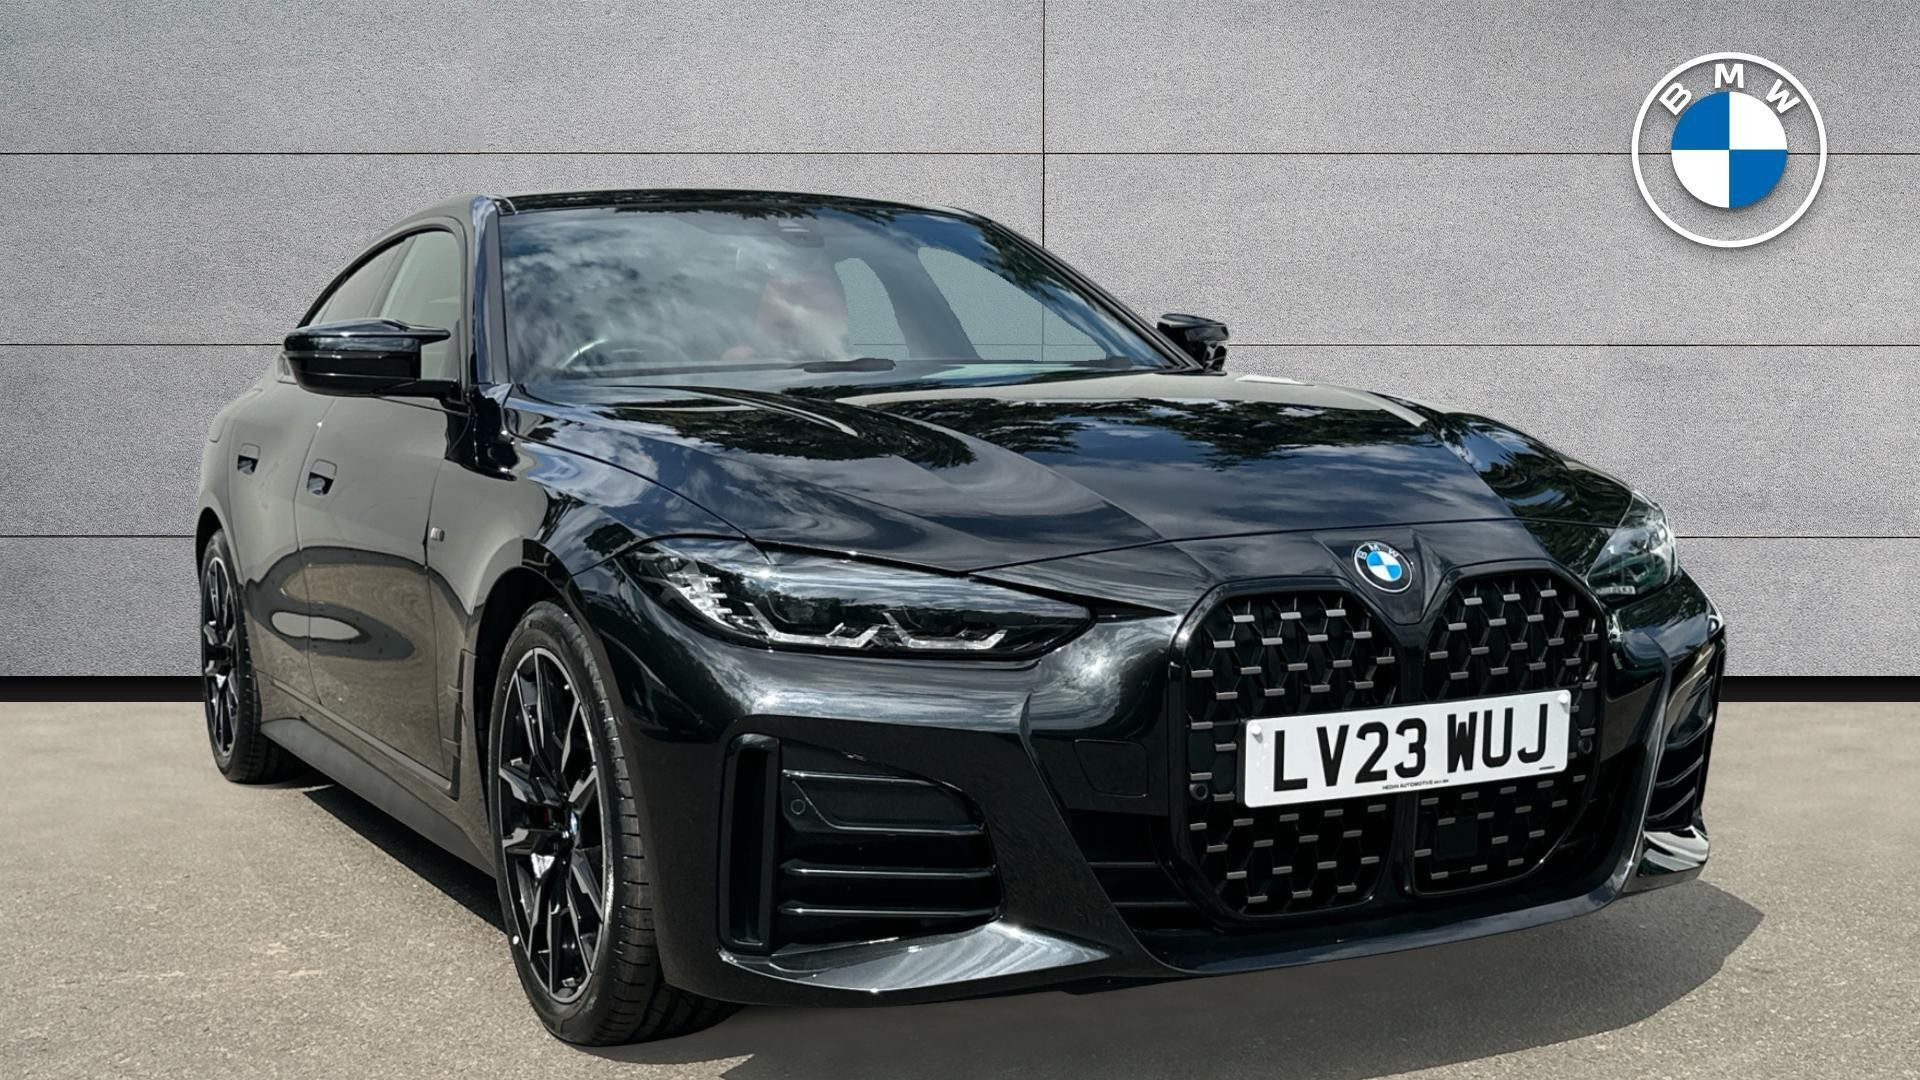
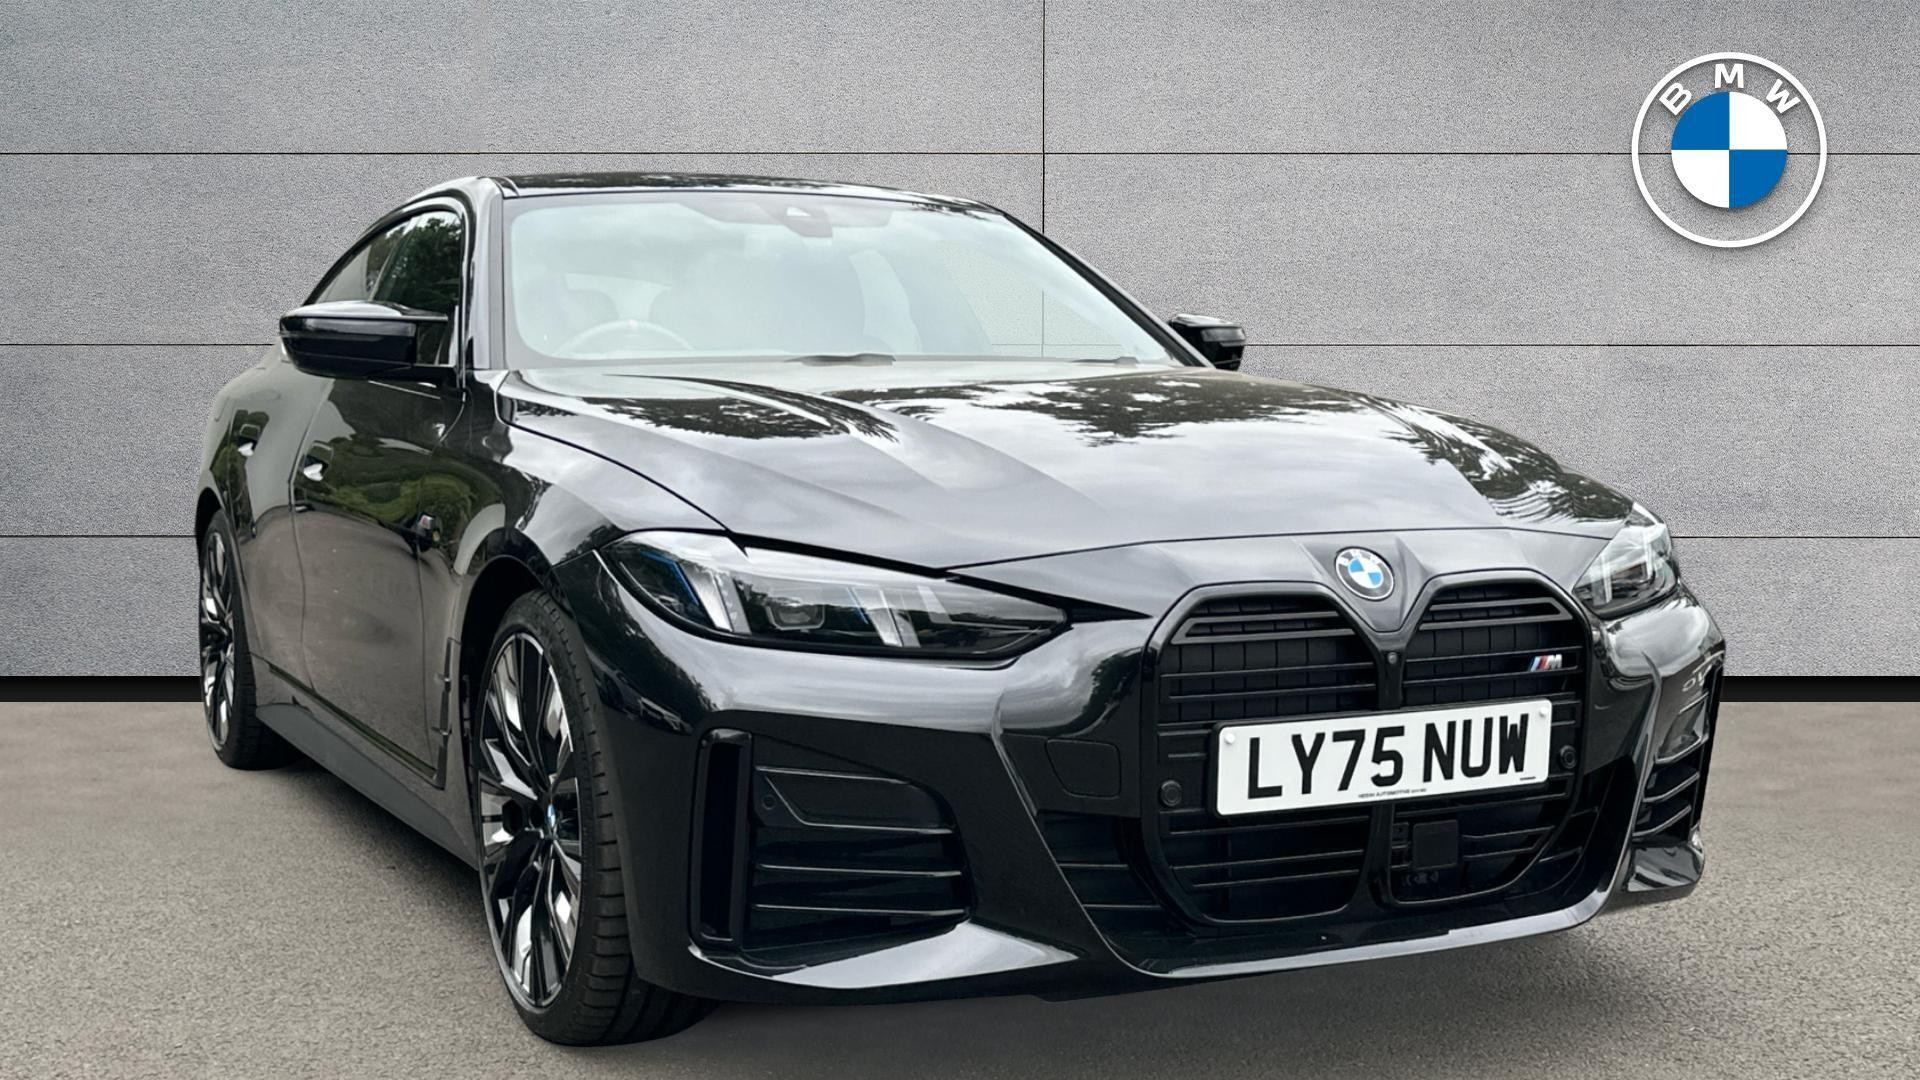
Refresh Available Now stock: M440i sold, swap in 2025 replacement
The 2023 M440i xDrive Gran Coupe (LV23WUJ) listing 404s on Hedin - sold.
Replaced with a lower-mileage 2025 M440i xDrive Gran Coupe (LY75NUW,
£51,995, 3,321 miles) from current Ruxley stock, with fresh photos
verified against the listing's plate. All other six cars checked
against their live Hedin listings - prices and mileage unchanged.

diff --git a/offers.html b/offers.html
@@ -227,7 +227,7 @@
         <!-- M440i xDRIVE GRAN COUPE -->
         <article class="stock-card reveal">
           <div class="stock-gallery">
-            <img class="stock-main" id="m440-main" src="assets/m440-1.jpg" alt="2023 BMW M440i xDrive Gran Coupe LV23WUJ" loading="lazy"/>
+            <img class="stock-main" id="m440-main" src="assets/m440-1.jpg" alt="2025 BMW M440i xDrive Gran Coupe LY75NUW" loading="lazy"/>
           </div>
           <div class="stock-thumbs">
             <button class="stock-thumb active" onclick="switchImg(this,'assets/m440-1.jpg','m440-main')" aria-label="Photo 1"><img src="assets/m440-1.jpg" alt="" aria-hidden="true"/></button>
@@ -236,20 +236,20 @@
             <button class="stock-thumb" onclick="switchImg(this,'assets/m440-4.jpg','m440-main')" aria-label="Photo 4"><img src="assets/m440-4.jpg" alt="" aria-hidden="true"/></button>
           </div>
           <div class="stock-body">
-            <div class="stock-meta">2023 &middot; LV23WUJ</div>
+            <div class="stock-meta">2025 &middot; LY75NUW</div>
             <h3>BMW M440i xDrive Gran Coupe</h3>
-            <div class="stock-price"><small>Price</small>&pound;38,450</div>
+            <div class="stock-price"><small>Price</small>&pound;51,995</div>
             <div class="stock-spec">
-              <span><strong>25,094</strong> miles</span>
+              <span><strong>3,321</strong> miles</span>
               <span><strong>374</strong> hp</span>
-              <span><strong>Petrol</strong></span>
+              <span><strong>4.7s</strong> 0-62</span>
               <span><strong>AWD</strong></span>
             </div>
-            <p class="stock-features">19&rdquo; M double-spoke bicolour Jet Black wheels, Active Guard Plus, Active Pedestrian Safety, ambient lighting, anthracite headlining, automatic air conditioning</p>
+            <p class="stock-features">20&rdquo; M Individual bicolour alloys, M Sport Pro Pack, Harman Kardon surround sound, adaptive M suspension, BMW Curved Display, heated steering wheel</p>
             <div class="stock-ctas">
-              <a class="btn-quiet" href="https://wa.me/447827138197?text=Hi%20Dan%2C%20I%20saw%20the%202023%20M440i%20xDrive%20Gran%20Coupe%20%28LV23WUJ%29%20on%20your%20Available%20Now%20page.%20Can%20you%20tell%20me%20more%3F" target="_blank" rel="noopener">WhatsApp Dan</a>
-              <button type="button" class="btn-quiet" onclick="phOpenContact('Hello Dan, I would like to check availability on the 2023 BMW M440i xDrive Gran Coupe (LV23WUJ, £38,450).')">Email Dan</button>
-              <a class="btn-quiet" href="https://hedinautomotive.co.uk/buy-car/used-cars/242778/pb-bmw-418-2023" target="_blank" rel="noopener">Full listing</a>
+              <a class="btn-quiet" href="https://wa.me/447827138197?text=Hi%20Dan%2C%20I%20saw%20the%202025%20M440i%20xDrive%20Gran%20Coupe%20%28LY75NUW%29%20on%20your%20Available%20Now%20page.%20Can%20you%20tell%20me%20more%3F" target="_blank" rel="noopener">WhatsApp Dan</a>
+              <button type="button" class="btn-quiet" onclick="phOpenContact('Hello Dan, I would like to check availability on the 2025 BMW M440i xDrive Gran Coupe (LY75NUW, £51,995).')">Email Dan</button>
+              <a class="btn-quiet" href="https://hedinautomotive.co.uk/buy-car/used-cars/242787/pb-bmw-m440-2025" target="_blank" rel="noopener">Full listing</a>
             </div>
           </div>
         </article>
